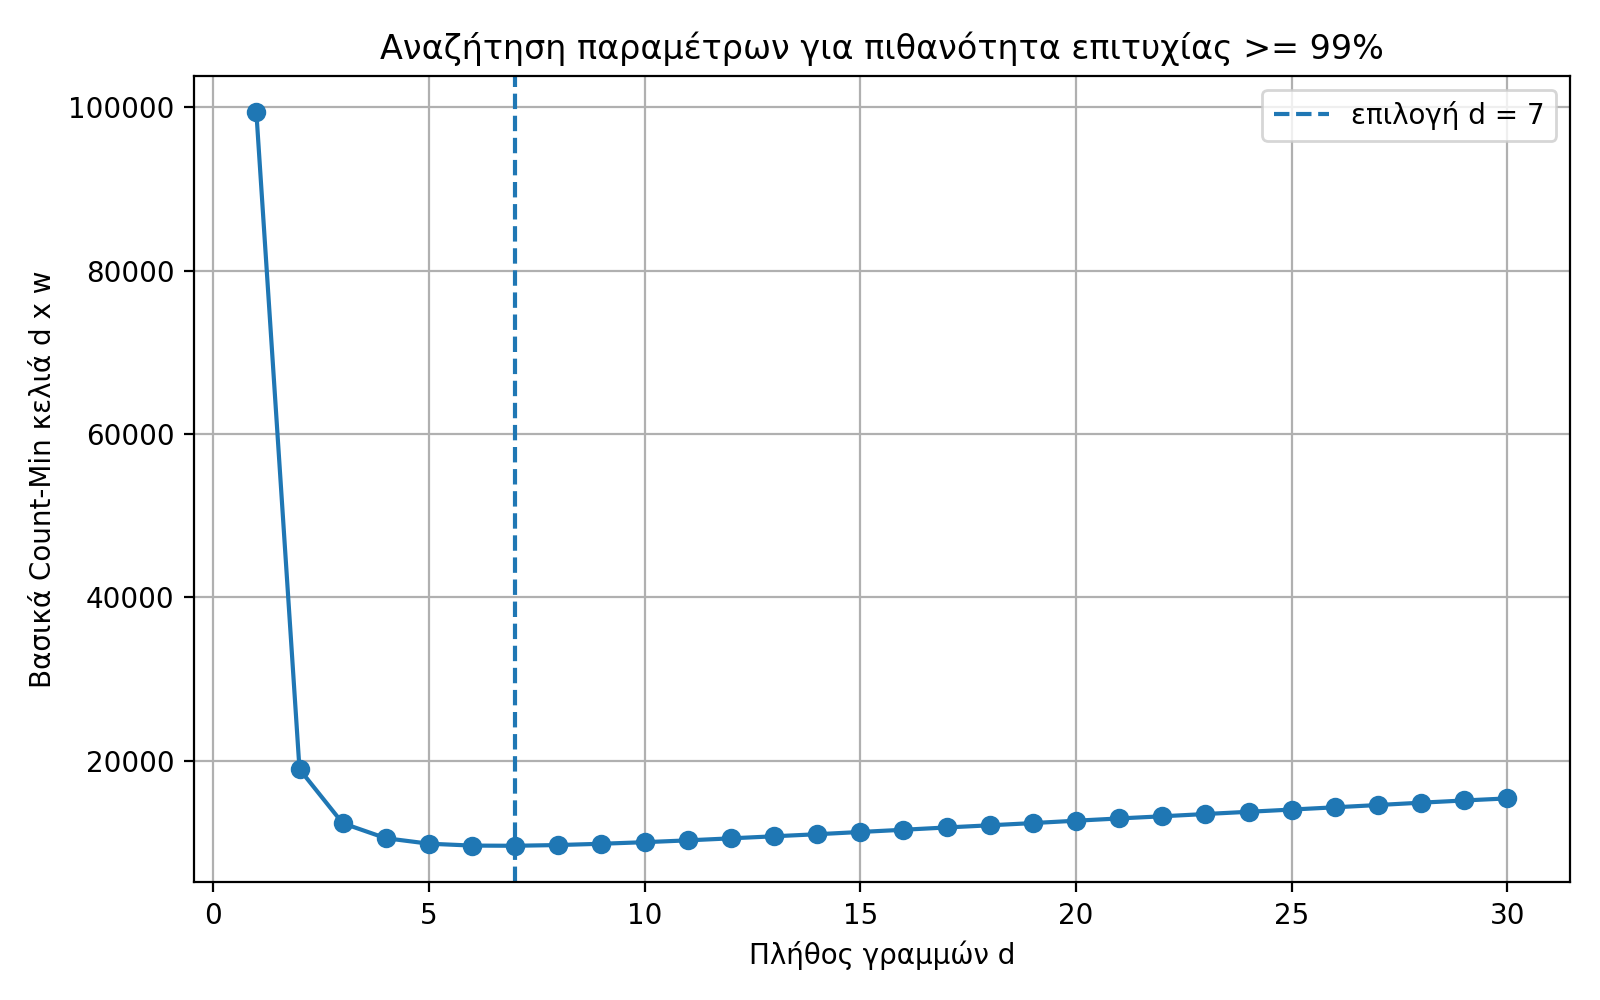
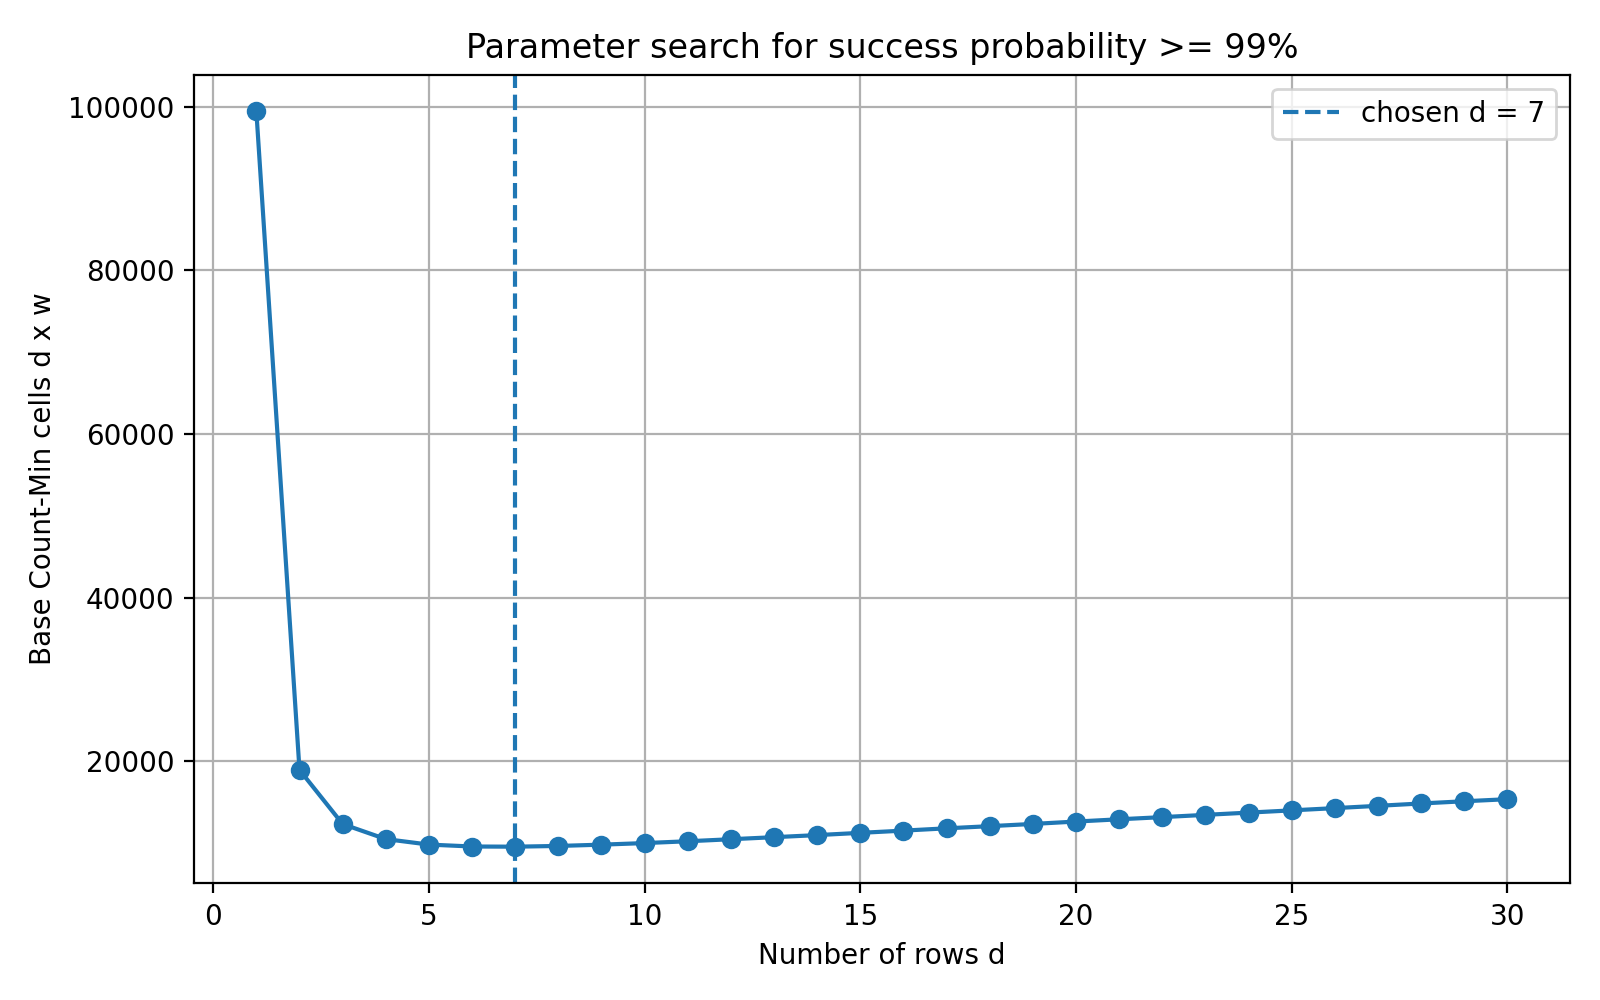
Translate README, code, and regenerate charts in English

diff --git a/project2.py b/project2.py
@@ -18,20 +18,20 @@ class CountMinSketch:
         self.d = d
         self.w = w
 
-        # Megalos protos arithmos, p > 2^100
+        # Large prime, p > 2^100
         self.p = P
 
-        # Kanonikos pinakas Count-Min
+        # The standard Count-Min table
         self.table = [[0 for _ in range(w)] for _ in range(d)]
         self.touched = [set() for _ in range(d)]
 
-        # Gia kathe keli krataw kai 100 athroismata, ena gia kathe bit
-        # Ta krataw sparse, gia na min arxikopoiw ola ta adeia kelia se kathe peirama
+        # For every cell we also keep 100 sums, one per bit
+        # Kept sparse, so all the empty cells aren't initialized on every experiment
         self.bit_sums = [{} for _ in range(d)]
 
-        # Vec_p oikogeneia: kathe hash function exei BITS aneksarthtous syntelestes
+        # Vec_p family: each hash function has BITS independent coefficients
         # h_i(s) = (a[i][0]*s0 + a[i][1]*s1 + ... + a[i][99]*s99 + b[i]) mod p mod w
-        # to string antimetopizetai ws dianysma bits sto Z_p
+        # the string is treated as a bit vector over Z_p
         self.a = [[random.randint(0, self.p - 1) for _ in range(BITS)] for _ in range(d)]
         self.b = [random.randint(0, self.p - 1) for _ in range(d)]
 
@@ -44,21 +44,21 @@ class CountMinSketch:
         return bits
 
     def _hash_from_bits(self, bits, i):
-        # Vec_p: esoteriko ginomeno tou dianysmatos bits tou s me ta a[i][.], +b[i], mod p
+        # Vec_p: inner product of s's bit vector with a[i][.], plus b[i], mod p
         val = self.b[i]
         row_a = self.a[i]
         for bit in bits:
             val += row_a[bit]
 
-        # Teliko mod w: pernaei to apotelesma sto eyros [0, w) twn sthlwn tou Count-Min
+        # Final mod w: maps the result into the [0, w) column range of the Count-Min
         return val % self.p % self.w
 
     def hash(self, x, i):
         return self._hash_from_bits(self._set_bits(x), i)
 
     def update(self, s, c):
-        # To s einai akeraios pou antistoixei sto 100-bit string
-        # To c mporei na einai kai arnitiko, giati i domi einai grammiki
+        # s is the integer corresponding to the 100-bit string
+        # c may also be negative, since the structure is linear
         set_bits = self._set_bits(s)
 
         for i in range(self.d):
@@ -66,7 +66,7 @@ class CountMinSketch:
             self.table[i][pos] += c
             self.touched[i].add(pos)
 
-            # Prosthetw to c mono sta bits pou einai 1.
+            # Add c only to the bits that are 1.
             row_bit_sums = self.bit_sums[i]
             if pos not in row_bit_sums:
                 row_bit_sums[pos] = [0 for _ in range(BITS)]
@@ -76,18 +76,18 @@ class CountMinSketch:
                 bucket_bits[bit] += c
 
     def find_answer(self):
-        # Psaxnw gia keli pou fainetai na exei apomonwmeno to stoixeio me timi 100
+        # Look for a cell that appears to hold the isolated element with value 100
         for i in range(self.d):
             for j in self.touched[i]:
                 total = self.table[i][j]
                 bits = self.bit_sums[i].get(j)
 
-                # Periptwsi opou i apantisi einai to string me ola ta bits 0
+                # The case where the answer is the all-zero-bits string
                 if total == 100 and bits is None:
                     return 0
 
-                # An to bary stoixeio einai mono tou se auto to keli,
-                # tote to total einai 100 kai kathe bit-sum einai 0 i 100
+                # If the heavy element sits alone in this cell,
+                # then total is 100 and every bit-sum is either 0 or 100
                 if total == 100 and all(v == 0 or v == 100 for v in bits):
                     answer = 0
                     for bit in range(BITS):
@@ -95,7 +95,7 @@ class CountMinSketch:
                             answer |= 1 << bit
                     return answer
 
-        # Se periptwsi pou den apomonwthike se kamia grammi
+        # The case where it never got isolated in any row
         return None
 
 
@@ -111,7 +111,7 @@ def random_strings(n):
 
 
 def int_to_100bit_string(x):
-    # Metatrepei ton akeraio x se string 100 bits
+    # Converts the integer x into a 100-bit string
     return format(x, f"0{BITS}b")
 
 
@@ -133,8 +133,8 @@ def one_test():
 
 
 def one_verbose_test():
-    # Ena paradeigma ektelesis opou typwnw kai tin pragmatiki apantisi
-    # kai tin apantisi pou epestrepse o algorithmos.
+    # One example run that prints both the true answer
+    # and the answer the algorithm returned.
     cms = CountMinSketch(D, W)
     strings = random_strings(1000)
 
@@ -158,7 +158,7 @@ def one_verbose_test():
 
 
 def experiment():
-    # I ekfwnisi zita 1000 tyxaies symvoloseires ana peirama.
+    # The handout asks for 1000 random strings per experiment.
     trials = 1000
     success = 0
 
@@ -166,9 +166,9 @@ def experiment():
         if one_test():
             success += 1
 
-    print("Epityxies:", success)
-    print("Synolika peiramata:", trials)
-    print("Pososto epityxias:", success / trials * 100, "%")
+    print("Successes:", success)
+    print("Total experiments:", trials)
+    print("Success rate:", success / trials * 100, "%")
 
 
 def success_probability(d, w):
@@ -203,12 +203,12 @@ def plot_success_probability():
 
     plt.figure(figsize=(8, 5))
     plt.plot(ds, probs, marker="o")
-    plt.axhline(y=0.99, linestyle="--", label="99% όριο")
-    plt.axvline(x=D, linestyle="--", label=f"επιλογή d = {D}")
+    plt.axhline(y=0.99, linestyle="--", label="99% threshold")
+    plt.axvline(x=D, linestyle="--", label=f"chosen d = {D}")
 
-    plt.xlabel("Πλήθος γραμμών d")
-    plt.ylabel("Πιθανότητα επιτυχίας")
-    plt.title(f"Πιθανότητα επιτυχίας για w = {W}")
+    plt.xlabel("Number of rows d")
+    plt.ylabel("Success probability")
+    plt.title(f"Success probability for w = {W}")
     plt.grid(True)
     plt.legend()
     plt.tight_layout()
@@ -230,11 +230,11 @@ def plot_parameter_search():
 
     plt.figure(figsize=(8, 5))
     plt.plot(ds, cells, marker="o")
-    plt.axvline(x=D, linestyle="--", label=f"επιλογή d = {D}")
+    plt.axvline(x=D, linestyle="--", label=f"chosen d = {D}")
 
-    plt.xlabel("Πλήθος γραμμών d")
-    plt.ylabel("Βασικά Count-Min κελιά d x w")
-    plt.title("Αναζήτηση παραμέτρων για πιθανότητα επιτυχίας >= 99%")
+    plt.xlabel("Number of rows d")
+    plt.ylabel("Base Count-Min cells d x w")
+    plt.title("Parameter search for success probability >= 99%")
     plt.grid(True)
     plt.legend()
     plt.tight_layout()
@@ -242,15 +242,15 @@ def plot_parameter_search():
     plt.close()
 
     print()
-    print("Pinakas parametrwn apo to grafima:")
+    print("Parameter table from the chart:")
     print("d\tw_min\td*w")
     for d, w, cell_count in zip(ds, ws, cells):
         print(f"{d}\t{w}\t{cell_count}")
 
 
 def main():
-    # Den vazw fixed seed: thelw to peirama na vgazei diaforetiko apotelesma kathe fora,
-    # gia na fenetai oti to ~99% epityxias den einai stimeno.
+    # No fixed seed on purpose: the experiment should give a different result on
+    # every run, to show the ~99% success rate is not staged.
     best_d, best_w, best_cells = find_best_parameters()
 
     print("Best parameters from search for d = 1,...,100:")

diff --git a/README.md b/README.md
@@ -1,39 +1,39 @@
-# Αλγόριθμοι για Δεδομένα Ευρείας Κλίμακας — Project 2
+# Algorithms for Large-Scale Data — Project 2
 
-Αυτή είναι η δεύτερη εργασία μου για το μάθημα **Αλγόριθμοι για Δεδομένα Ευρείας Κλίμακας** στο Τμήμα Μηχανικών Η/Υ & Πληροφορικής του Πανεπιστημίου Ιωαννίνων. Φτιάχνω εδώ μια παραλλαγή της δομής Count-Min Sketch και τη χρησιμοποιώ για να βρω ένα «βαρύ» στοιχείο μέσα σε ένα ρεύμα δεδομένων.
+This is my second assignment for the **Algorithms for Large-Scale Data** course at the Department of Computer Science & Engineering, University of Ioannina. It builds a variant of the Count-Min Sketch and uses it to identify a "heavy" element inside a data stream.
 
-## Τι ζητάει η άσκηση
+## What the exercise asks for
 
-Έχω 1000 τυχαίες δυαδικές συμβολοσειρές, η καθεμία 100 bits. Οι 999 εμφανίζονται με βάρος 10, ενώ μία ξεχωριστή εμφανίζεται με βάρος 100 αυτή είναι το βαρύ στοιχείο που θέλουμε να βρούμε. Το θέμα είναι ότι δεν επιτρέπεται να κρατήσουμε όλο το ρεύμα στη μνήμη, παρά μόνο μια μικρή σύνοψή του.
+There are 1000 random binary strings, each 100 bits long. 999 of them appear with weight 10, while one special string appears with weight 100 — that is the heavy element we want to recover. The catch is that we are not allowed to keep the whole stream in memory, only a small summary of it.
 
-Το δύσκολο κομμάτι είναι ότι το σκέτο Count-Min Sketch σου λέει μόνο πόσο συχνά εμφανίζεται κάτι, όχι ποιο ακριβώς είναι. Γι' αυτό επέκτεινα τη δομή: εκτός από το άθροισμα βαρών κάθε κελιού, κρατάω και ένα ξεχωριστό άθροισμα για κάθε bit. Έτσι, όταν το βαρύ στοιχείο πέσει μόνο του σε ένα κελί, το άθροισμα του κελιού βγαίνει 100 και κάθε άθροισμα bit είναι είτε 0 είτε 100 οπότε ξαναφτιάχνω τη συμβολοσειρά bit προς bit.
+The hard part is that a plain Count-Min Sketch only tells you how often something appears, not what it actually is. So I extended the structure: besides the weight sum of each cell, it also keeps a separate sum for every bit. That way, when the heavy element lands alone in a cell, the cell's sum comes out as 100 and every bit sum is either 0 or 100 — so the string can be reconstructed bit by bit.
 
-## Πώς το υλοποίησα
+## How I implemented it
 
-Όλος ο κώδικας είναι στο `project2.py`. Η κλάση `CountMinSketch` παίρνει τις παραμέτρους `d` (γραμμές) και `w` (στήλες) και κρατάει και τον κανονικό πίνακα Count-Min και τους αθροιστές ανά bit. Τους αθροιστές τους κρατάω αραιά (sparse), για να μην αρχικοποιώ άσκοπα όλα τα άδεια κελιά σε κάθε πείραμα.
+All the code lives in `project2.py`. The `CountMinSketch` class takes the parameters `d` (rows) and `w` (columns) and maintains both the standard Count-Min table and the per-bit accumulators. The accumulators are kept sparse, so all the empty cells don't get initialized needlessly on every experiment.
 
-Για τον κατακερματισμό χρησιμοποιώ την οικογένεια vec_p: κάθε συμβολοσειρά τη βλέπω σαν διάνυσμα bits στο σώμα Z_p, με p = 2^127 − 1, και το hash βγαίνει σαν εσωτερικό γινόμενο με τυχαίους συντελεστές, και μετά mod p και mod w. Η μέθοδος `find_answer` ψάχνει τα κελιά που έχουν πειραχτεί και βρίσκει εκείνο όπου το βαρύ στοιχείο έχει απομονωθεί και επιστρέφει τη συμβολοσειρά. Αν δεν απομονωθεί πουθενά, γυρίζει `None` και αυτό μετράει σαν αποτυχία.
+Hashing uses the vec_p family: each string is viewed as a bit vector over the field Z_p, with p = 2^127 − 1, and the hash is computed as an inner product with random coefficients, then mod p and mod w. The `find_answer` method scans the touched cells, finds the one where the heavy element got isolated, and returns the string. If it never gets isolated anywhere, it returns `None`, which counts as a failure.
 
-## Πώς διάλεξα τις παραμέτρους
+## How I picked the parameters
 
-Οι τιμές `d = 7` και `w = 1370` δεν είναι στην τύχη. Υπολογίζω αναλυτικά την πιθανότητα να απομονωθεί το βαρύ στοιχείο σε τουλάχιστον μία από τις `d` γραμμές, και η συνάρτηση `find_best_parameters` ψάχνει τον συνδυασμό που πιάνει τουλάχιστον 99% επιτυχία με όσο το δυνατόν λιγότερα κελιά. Τα δύο διαγράμματα που βγαίνουν στην εκτέλεση, το `success_probability.png` και το `parameter_search.png`, δείχνουν πώς αλλάζει η πιθανότητα με τις γραμμές και πού βρίσκεται ο πιο οικονομικός συνδυασμός.
+The values `d = 7` and `w = 1370` are not arbitrary. I compute analytically the probability that the heavy element gets isolated in at least one of the `d` rows, and the `find_best_parameters` function searches for the combination that reaches at least 99% success with as few cells as possible. The two charts produced during execution, `success_probability.png` and `parameter_search.png`, show how the probability changes with the number of rows and where the most economical combination sits.
 
-Επίτηδες δεν βάζω σταθερό seed στην τυχαιότητα, ώστε κάθε φορά που τρέχει να βγάζει άλλο αποτέλεσμα και να φαίνεται ότι το ~99% επιτυχίας δεν είναι στημένο.
+The randomness is deliberately left unseeded, so every run produces a different result — making it clear the ~99% success rate is not staged.
 
-## Πώς τρέχει
+## Running it
 
-Τρέχεις απλώς:
+Simply run:
 
 ```bash
 python project2.py
 ```
 
-Χρειάζεται η βιβλιοθήκη `matplotlib` για τα διαγράμματα. Όταν τρέξει, τυπώνει τις καλύτερες παραμέτρους από την αναζήτηση, ένα αναλυτικό παράδειγμα που συγκρίνει την πραγματική με την επιστρεφόμενη απάντηση, και στο τέλος το συνολικό ποσοστό επιτυχίας μετά από 1000 πειράματα.
+The `matplotlib` library is needed for the charts. The run prints the best parameters found by the search, a verbose example comparing the true answer against the returned one, and finally the overall success rate over 1000 experiments.
 
-## Τι έχει μέσα ο φάκελος
+## What's in the folder
 
-Στο `project2.py` είναι ο κώδικας. Τα `success_probability.png` και `parameter_search.png` είναι τα διαγράμματα που βγαίνουν αυτόματα. Η πλήρης αναφορά είναι στο `anafora_ergasias2.pdf` και η εκφώνηση στο `Φυλλάδιο Ασκήσεων 2.pdf`.
+`project2.py` holds the code. `success_probability.png` and `parameter_search.png` are the automatically generated charts. The full report is in `anafora_ergasias2.pdf` and the handout in `Assignment Sheet 2.pdf`.
 
-## Συγγραφέας
+## Author
 
-Αθανάσιος Φουρκιώτης — ΑΜ 4940
+Athanasios Fourkiotis — student ID 4940
